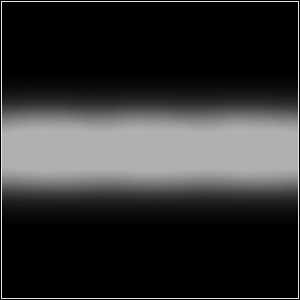
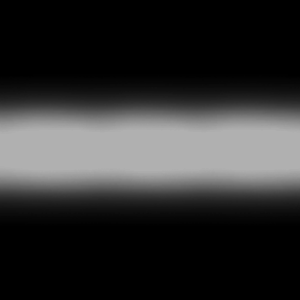
Charge shot wablam

Changed region(s): [[0.0, 0.0, 1.0, 1.0]]

diff --git a/Assets/_Scripts/Ships/GlassCannon/ChargeShot.cs b/Assets/_Scripts/Ships/GlassCannon/ChargeShot.cs
@@ -2,36 +2,84 @@
 using System.Collections;
 
 public class ChargeShot : MonoBehaviour {
+	public Player owningPlayer;
+	public PlayerShip player;
+
+	enum ChargeState {
+		charging,
+		charged,
+		fired,
+		cancelled
+	}
+
 	ParticleSystem chargeParticle;
+	ParticleSystem shotParticle;
 
 	float chargeTime = 3f;
-	float maxChargeAngle = 25f;
+	float maxChargeAngle = 30f;
 	float minChargeAngle = 0f;
 	float minChargeRotationSpeed = 1f;
 	float maxChargeRotationSpeed = 10f;
 	float maxStartSize = 1f;
 	float minStartSize = 0.2f;
-	Color startColor = new Color(1,1,1, 82f/255f);
+	float maxChargeSlow = 0.35f;
+	Color startColor = new Color(1,1,1, 6f/255f);
 	Color endColor = new Color(1, 86f/255f, 86f/255f, 82f/255f);
+
+	ChargeState state;
+
+	float damage = 40f;
+
+	KeyCode B;
 
 	// Use this for initialization
 	void Start () {
+		shotParticle = transform.FindChild("ShotParticles").GetComponent<ParticleSystem>();
 		chargeParticle = transform.FindChild("ChargeParticles").GetComponent<ParticleSystem>();
+
+		if (player != null) {
+			transform.SetParent(player.transform, false);
+			transform.localPosition = Vector3.zero;
+			transform.localRotation = Quaternion.Euler(Vector3.zero);
+		}
+
+		B = (owningPlayer == Player.player1) ? KeyCode.Alpha2 : KeyCode.Keypad2;
 		StartCoroutine(Charge());
 	}
 	
 	// Update is called once per frame
 	void Update () {
-	
+		if (Input.GetKeyUp(B) || (player != null && player.device != null && player.device.Action2.WasReleased)) {
+			//Cancel the charge if we're not ready yet
+			if (state == ChargeState.charging) {
+				state = ChargeState.cancelled;
+				Destroy(chargeParticle.gameObject);
+				Destroy(gameObject, 2f);
+				player.playerMovement.RestoreSpeed();
+			}
+			else if (state == ChargeState.charged) {
+				Fire();
+			}
+		}
 	}
 
 	IEnumerator Charge() {
+		state = ChargeState.charging;
 		float timeElapsed = 0f;
 		ParticleSystem.ShapeModule shape = chargeParticle.shape;
-		while (timeElapsed < chargeTime) {
+
+		//Set initial values before playing
+		shape.radius = 1f;
+		shape.angle = maxChargeAngle;
+		chargeParticle.startSize = maxStartSize;
+		chargeParticle.startColor = startColor;
+
+		chargeParticle.Play();
+		while (timeElapsed < chargeTime && state == ChargeState.charging) {
 			timeElapsed += Time.deltaTime;
 			float percent = timeElapsed/chargeTime;
 
+			//Animate the charge effect
 			shape.radius = Mathf.Lerp(1, 0, percent);
 			shape.angle = Mathf.Lerp(maxChargeAngle, minChargeAngle, percent*percent);
 			Vector3 curRot = chargeParticle.transform.localRotation.eulerAngles;
@@ -41,7 +89,50 @@ public class ChargeShot : MonoBehaviour {
 			chargeParticle.startSize = Mathf.Lerp(maxStartSize, minStartSize, percent * percent);
 			chargeParticle.startColor = Color.Lerp(startColor, endColor, percent * percent);
 
+			player.playerMovement.SlowPlayer(Mathf.Lerp(1, maxChargeSlow, percent), 0, true);
+
 			yield return null;
 		}
+
+		if (state != ChargeState.cancelled) {
+			state = ChargeState.charged;
+		}
+
+		while (state == ChargeState.charged) {
+			player.playerMovement.SlowPlayer(maxChargeSlow, 0, true);
+			yield return null;
+		}
+	}
+
+	void Fire() {
+		state = ChargeState.fired;
+		shotParticle.Play();
+
+		Ray shot = new Ray(transform.position, transform.up);
+		//See if we would hit anything by firing a bullet in this direction
+		RaycastHit[] hitscans = Physics.SphereCastAll(shot, 0.25f, 50f);
+		Debug.DrawRay(shot.origin, shot.direction * 50f, Color.blue, 10f);
+
+		foreach (var hitscan in hitscans) {
+			//If we hit anything with the hitscan
+			if (hitscan.collider != null) {
+				//Connect with players
+				if (hitscan.collider.gameObject.tag == "Player") {
+					PlayerShip hitPlayer = hitscan.collider.gameObject.GetComponentInParent<PlayerShip>();
+					if (hitPlayer.player != owningPlayer) {
+						hitPlayer.TakeDamage(damage);
+					}
+				}
+				//Connect with protag ships
+				else if (hitscan.collider.gameObject.tag == "ProtagShip") {
+					ProtagShip hitShip = hitscan.collider.gameObject.GetComponentInParent<ProtagShip>();
+					hitShip.TakeDamage(damage);
+				}
+			}
+		}
+
+		Destroy(chargeParticle.gameObject);
+		Destroy(gameObject, 2f);
+		player.playerMovement.RestoreSpeed();
 	}
 }

diff --git a/Assets/_Scripts/Ships/GlassCannon/GlassCannon.cs b/Assets/_Scripts/Ships/GlassCannon/GlassCannon.cs
@@ -3,13 +3,15 @@ using System.Collections;
 
 public class GlassCannon : PlayerShip {
 	DualLasers dualLaserPrefab;
+	ChargeShot chargeShotPrefab;
 
-	KeyCode A;
+	KeyCode A, B;
 
 	new void Awake() {
 		base.Awake();
 
 		dualLaserPrefab = Resources.Load<DualLasers>("Prefabs/DualLasers");
+		chargeShotPrefab = Resources.Load<ChargeShot>("Prefabs/ChargeShot");
 		GetComponentInChildren<SpriteRenderer>().sprite = Resources.Load<Sprite>("Images/GlassCannonShip/GCShip6");
 		GetComponentInChildren<Animator>().runtimeAnimatorController = Resources.Load<RuntimeAnimatorController>(
 			"Images/GlassCannonShip/GCShipAnimationController");
@@ -20,6 +22,7 @@ public class GlassCannon : PlayerShip {
 		base.Start();
 
 		A = (player == Player.player1) ? KeyCode.Alpha1 : KeyCode.Keypad1;
+		B = (player == Player.player1) ? KeyCode.Alpha2 : KeyCode.Keypad2;
 		maxHealth = 110f;
 		health = maxHealth;
 
@@ -29,6 +32,7 @@ public class GlassCannon : PlayerShip {
 	protected override void Update() {
 		base.Update();
 
+		//Dual laser attack
 		if (Input.GetKeyDown(A)) {
 			DualLasers dualLaser = Instantiate(dualLaserPrefab, transform.position, new Quaternion()) as DualLasers;
 			dualLaser.owningPlayer = player;
@@ -37,6 +41,20 @@ public class GlassCannon : PlayerShip {
 			if (device.Action1.WasPressed) {
 				DualLasers dualLaser = Instantiate(dualLaserPrefab, transform.position, new Quaternion()) as DualLasers;
 				dualLaser.owningPlayer = player;
+			}
+		}
+
+		//Charge shot attack
+		if (Input.GetKeyDown(B)) {
+			ChargeShot chargeShot = Instantiate(chargeShotPrefab, transform.position, new Quaternion()) as ChargeShot;
+			chargeShot.owningPlayer = player;
+			chargeShot.player = this;
+		}
+		if (device != null) {
+			if (device.Action2.WasPressed) {
+				ChargeShot chargeShot = Instantiate(chargeShotPrefab, transform.position, new Quaternion()) as ChargeShot;
+				chargeShot.owningPlayer = player;
+				chargeShot.player = this;
 			}
 		}
 	}

diff --git a/Assets/_Scripts/ShipMovement.cs b/Assets/_Scripts/ShipMovement.cs
@@ -143,10 +143,13 @@ public class ShipMovement : MonoBehaviour {
 		desiredRotation = Quaternion.Euler(startRotation.eulerAngles + new Vector3(0, 0, sign*turnAngle));
 	}
 
-	public void SlowPlayer(float percentOfNormalMovespeed, float duration=0.2f) {
+	public void SlowPlayer(float percentOfNormalMovespeed, float duration=0.2f, bool permaSlow=false) {
+		//print("Slowed to " + percentOfNormalMovespeed);
 		verticalMovespeed = vertMovespeedDefault * percentOfNormalMovespeed;
 		horizontalMovespeed = horizMovespeedDefault * percentOfNormalMovespeed;
-		StartCoroutine(RestoreSpeedCoroutine(duration));
+		if (!permaSlow) {
+			StartCoroutine(RestoreSpeedCoroutine(duration));
+		}
 	}
 
 	public void RestoreSpeed() {
